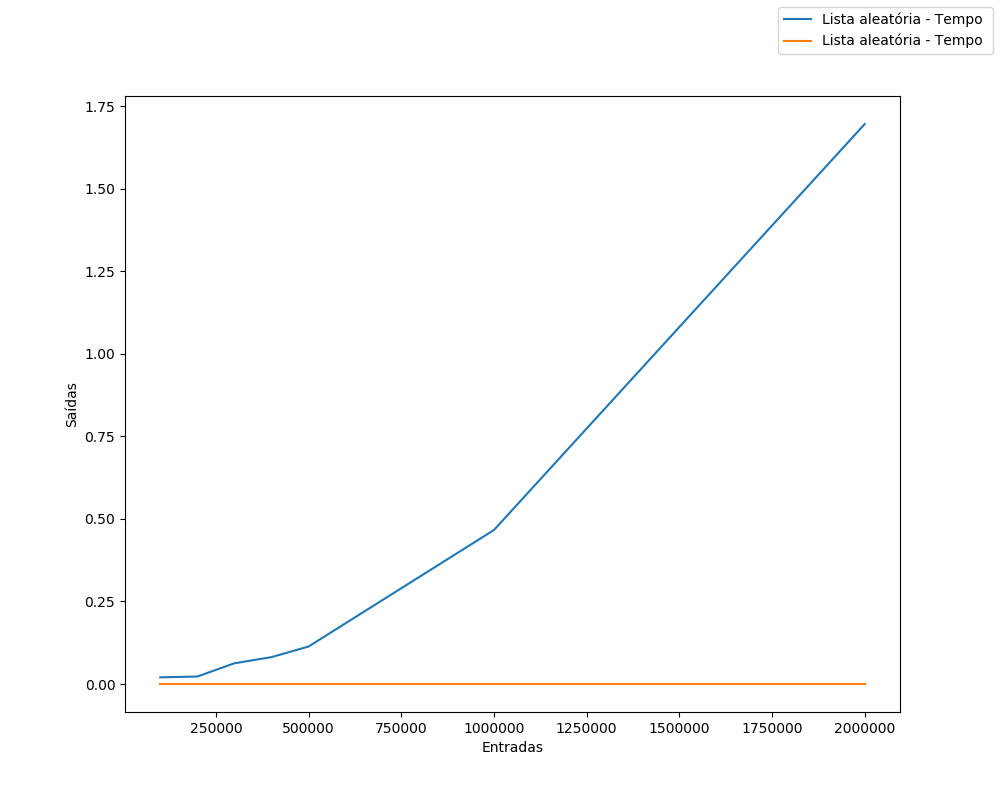
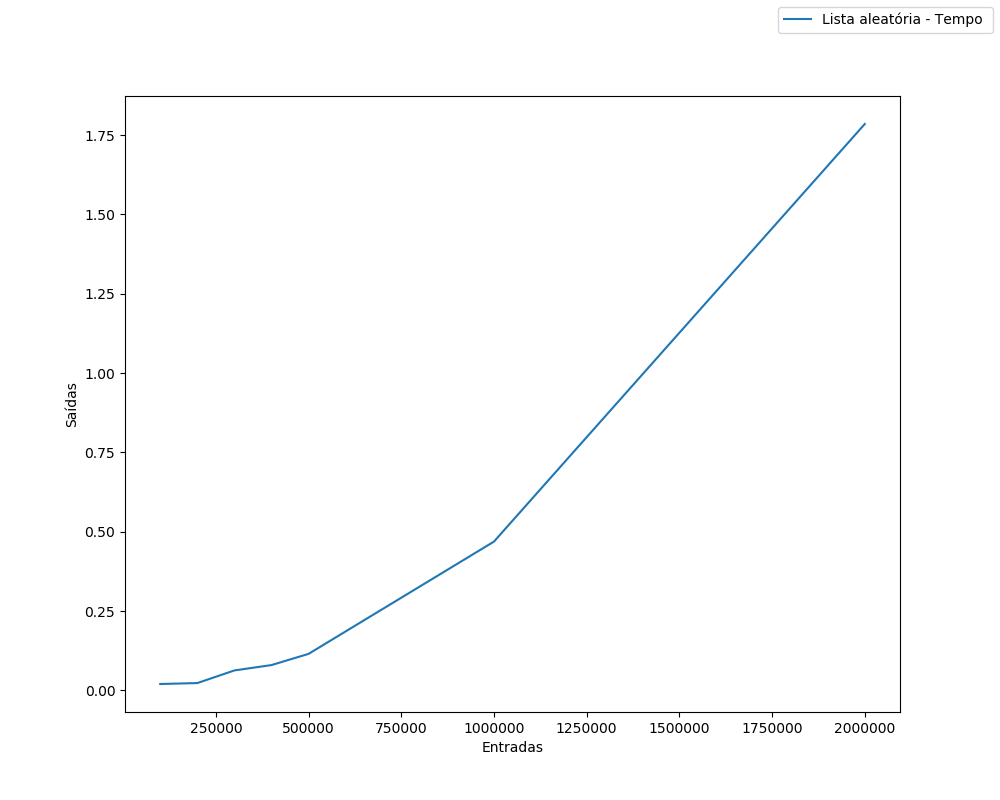
quicksort

diff --git a/quicksort/quicksort.py b/quicksort/quicksort.py
@@ -81,7 +81,7 @@ if __name__ == '__main__':
     z = [100000, 200000, 300000, 400000, 500000, 1000000, 2000000]
     x = []
     for i in z:
-        x.append(geraListaInvertida(int(i)))
+        x.append(geraListaInvertida(int(i//100)))
     y = []
 
     for i in range(len(x)):
